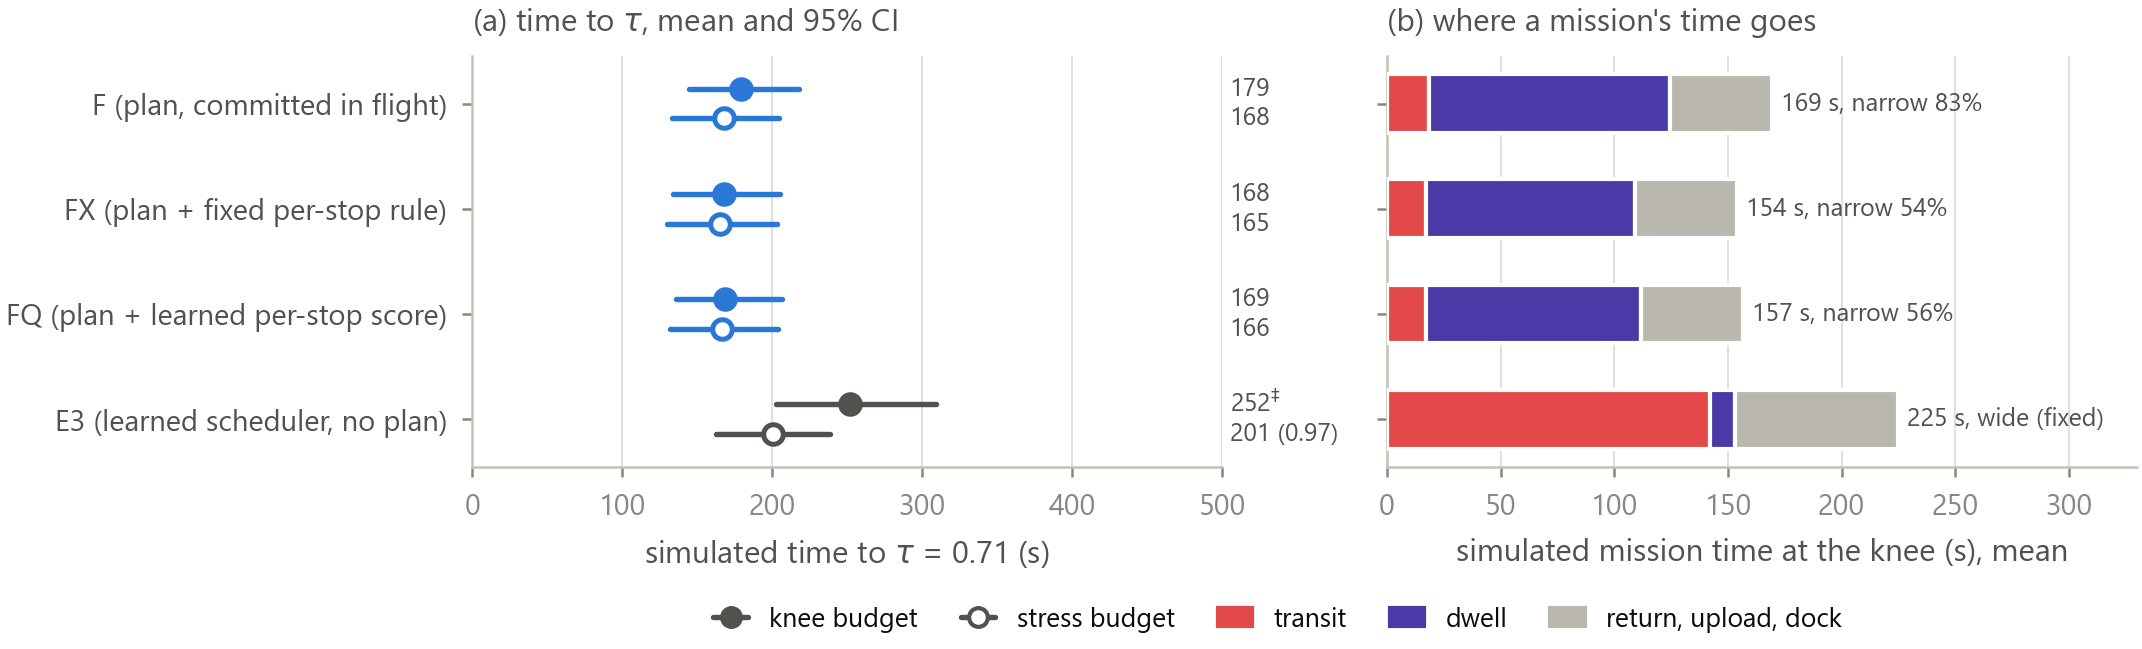
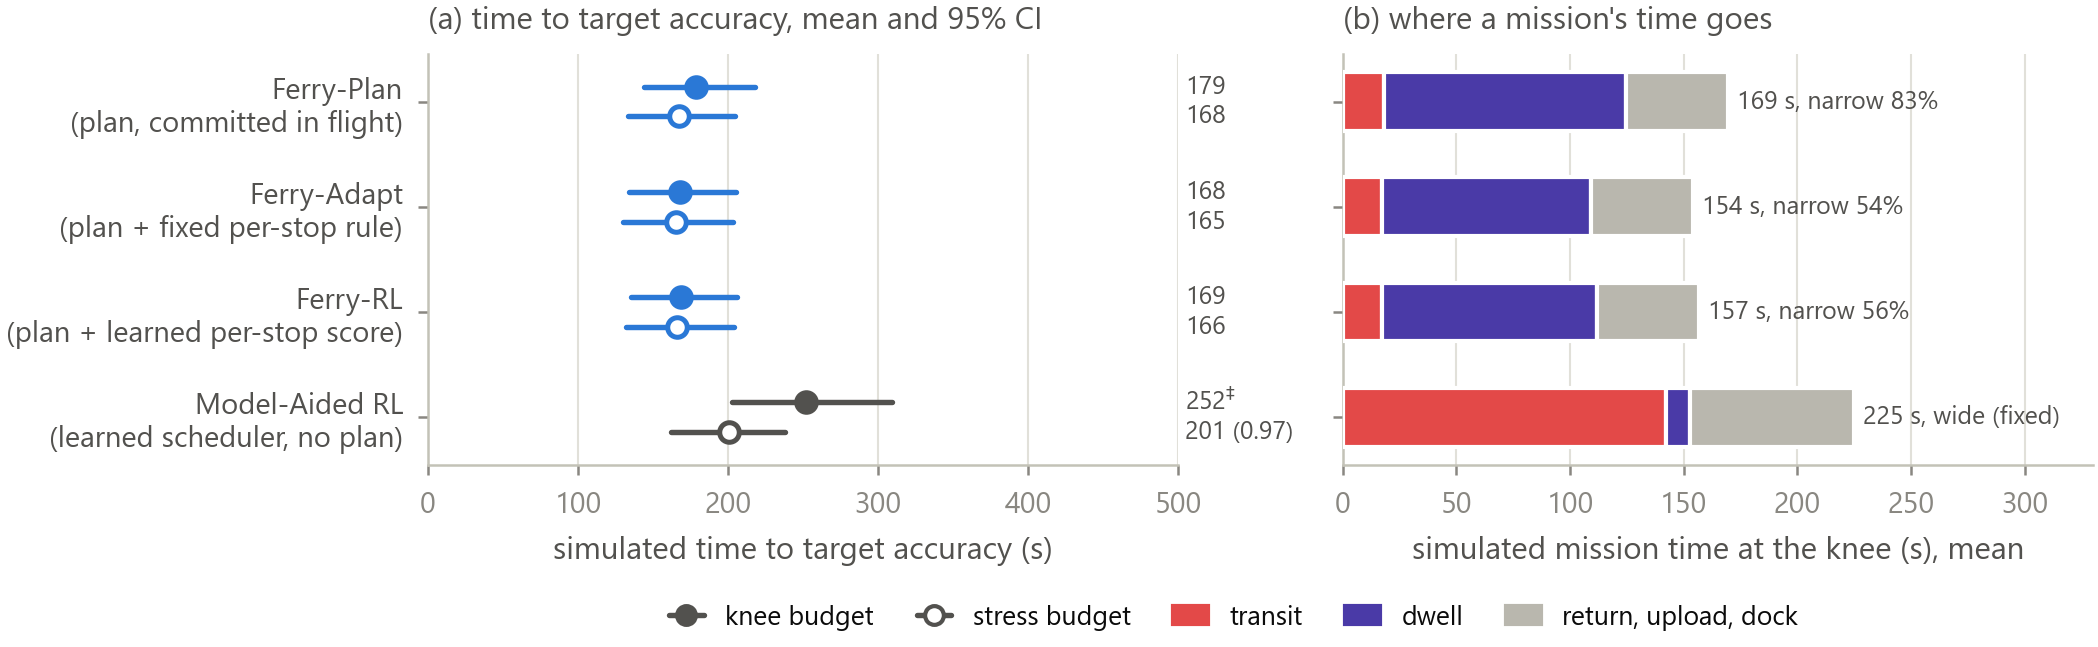
Paper: Figure 3 (fig_exp5_learning) labelled with the paper's names (20 Nov 2026)
The four rows carried the internal arm codes (F, FX, FQ, E3). They now lead with the
names the paper uses, Ferry-Plan, Ferry-Adapt, Ferry-RL and Model-Aided RL, with each
row's short description kept on a second line. Panel (a)'s title and axis say "time to
target accuracy", as Figures 1 (a39cf20c) and 2 do.

Labels only: the rows, their order and every plotted value are unchanged, and the
caption in the drafts already names the four approaches this way. All three figures
the paper includes now use its names.

diff --git a/scripts/exp5/paper_figures.py b/scripts/exp5/paper_figures.py
@@ -1032,11 +1032,11 @@ def fig_budget(out: Path) -> None:
     save(fig, out, "fig_exp5_budget")
 
 
-LEARN_ROWS = [  # (label, variant, has FeRRy's plan)
-    ("F (plan, committed in flight)", "F", True),
-    ("FX (plan + fixed per-stop rule)", "FX", True),
-    ("FQ (plan + learned per-stop score)", "FQ-g75", True),
-    ("E3 (learned scheduler, no plan)", "E3", False),
+LEARN_ROWS = [  # (label, variant, has FeRRy's plan); labels lead with the paper's names
+    ("Ferry-Plan\n(plan, committed in flight)", "F", True),
+    ("Ferry-Adapt\n(plan + fixed per-stop rule)", "FX", True),
+    ("Ferry-RL\n(plan + learned per-stop score)", "FQ-g75", True),
+    ("Model-Aided RL\n(learned scheduler, no plan)", "E3", False),
 ]
 
 
@@ -1082,8 +1082,8 @@ def fig_learning(out: Path) -> None:
     ax.set_yticklabels([r[0] for r in reversed(LEARN_ROWS)])
     ax.tick_params(axis="y", labelcolor=INK2)
     ax.set_xlim(0, 500)
-    ax.set_xlabel(r"simulated time to $\tau$ = 0.71 (s)")
-    ax.set_title(r"(a) time to $\tau$, mean and 95% CI", color=INK2, loc="left")
+    ax.set_xlabel("simulated time to target accuracy (s)")
+    ax.set_title("(a) time to target accuracy, mean and 95% CI", color=INK2, loc="left")
     ax.grid(axis="y", visible=False)
     bx.set_xlim(0, 330)
     bx.set_xlabel("simulated mission time at the knee (s), mean")
